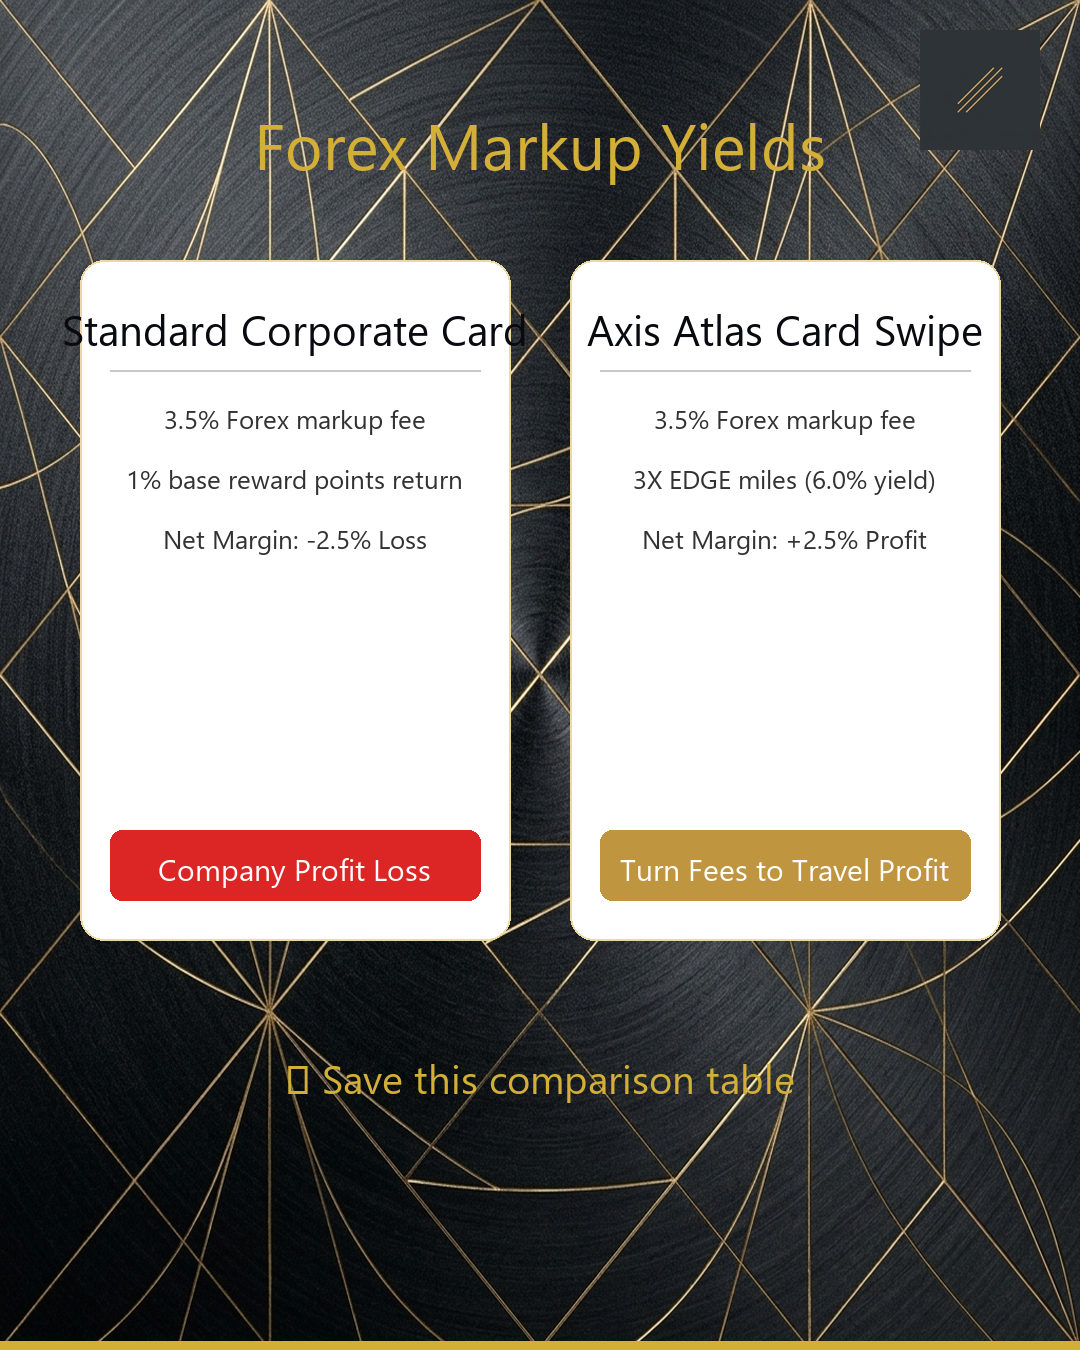
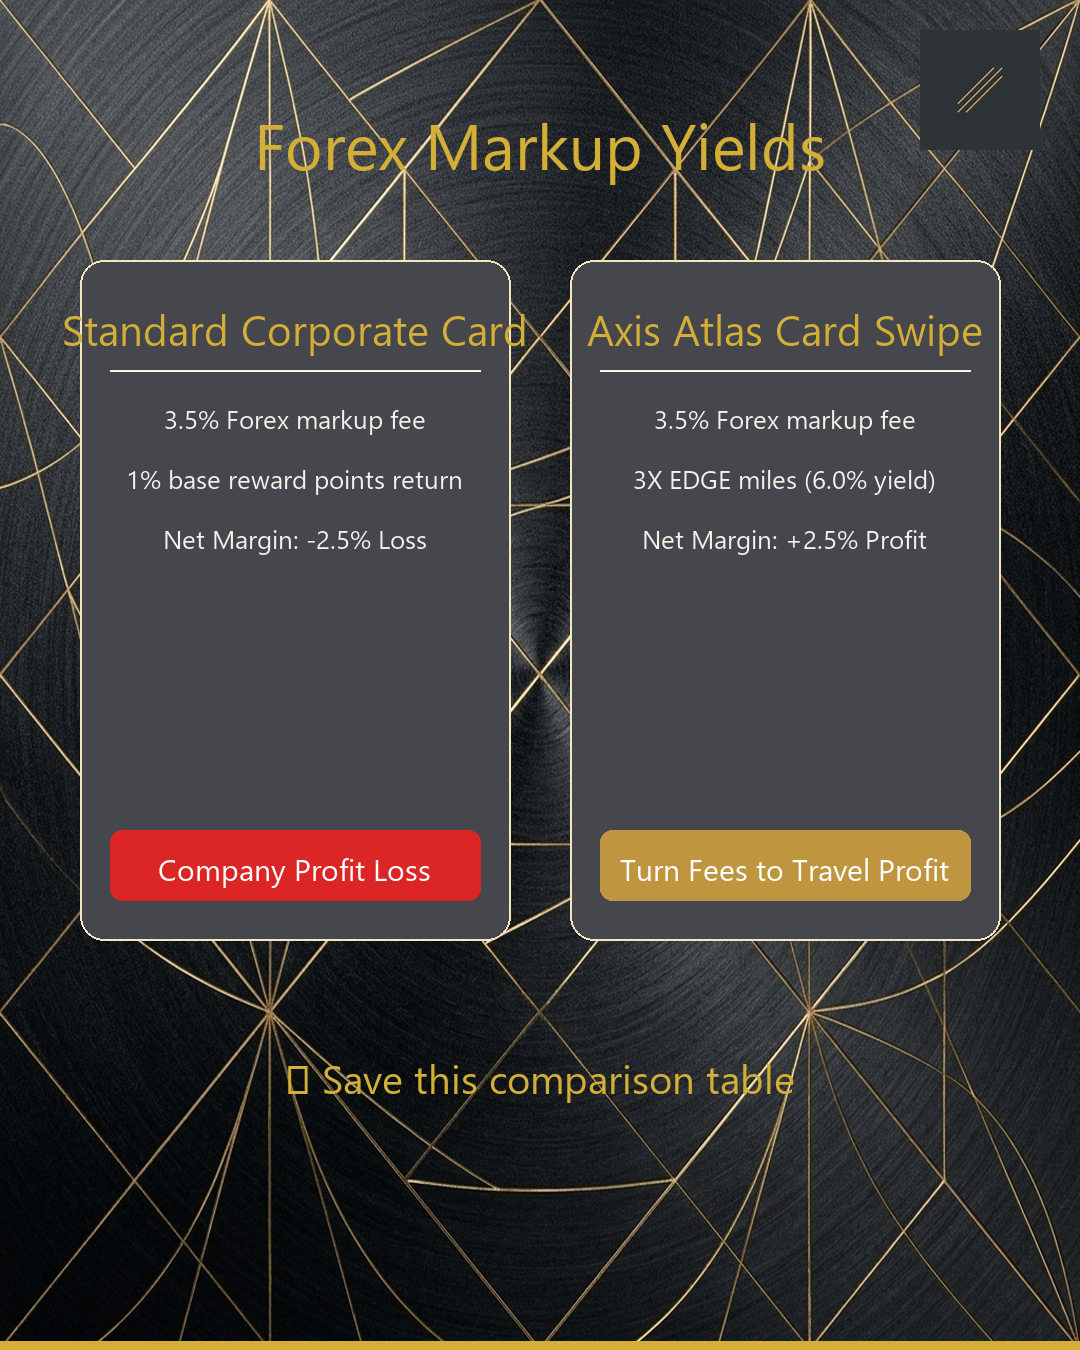
style: upgrade Slide 4 Math cards to premium dark glassmorphism and complete UI rebranding to The Indian Points Array

diff --git a/indiaCardRedemptions/src/app/insights.tsx b/indiaCardRedemptions/src/app/insights.tsx
@@ -51,9 +51,9 @@ export default function InsightsScreen() {
       imageStyle={{ width: '100%', height: '100%', opacity: 0.35 }}
     >
       <Head>
-        <title>Double/Triple Dip Calculator & Atlas Checker | The Points Array</title>
+        <title>Double/Triple Dip Calculator & Atlas Checker | The Indian Points Array</title>
         <meta name="description" content="Calculate extreme ROI with double and triple dips on HDFC SmartBuy and Marriott. Check live Axis Atlas MCC exclusions like BharatNXT." />
-        <meta property="og:title" content="Double/Triple Dip Calculator & Atlas Checker | The Points Array" />
+        <meta property="og:title" content="Double/Triple Dip Calculator & Atlas Checker | The Indian Points Array" />
         <meta property="og:description" content="Calculate extreme ROI with double and triple dips on HDFC SmartBuy and Marriott. Check live Axis Atlas MCC exclusions like BharatNXT." />
       </Head>
 
@@ -70,7 +70,7 @@ export default function InsightsScreen() {
           <Animated.View entering={FadeInDown.delay(200).springify()} style={styles.header}>
             <View>
               <ThemedText style={styles.subTitle} type="code">
-                THE POINTS ARRAY HACKS
+                THE INDIAN POINTS ARRAY HACKS
               </ThemedText>
               <ThemedText style={styles.mainTitle} type="title">
                 Insights & Multi-Dips
@@ -293,7 +293,7 @@ export default function InsightsScreen() {
                   <BlurView intensity={60} tint="dark" style={[StyleSheet.absoluteFillObject, { justifyContent: 'center', alignItems: 'center', padding: Spacing.five }]}>
                     <View style={styles.paywallBox}>
                       <ThemedText style={{ fontSize: 40, textAlign: 'center', marginBottom: Spacing.two }}>🔒</ThemedText>
-                      <ThemedText style={styles.paywallTitle}>Unlock The Points Array Pro</ThemedText>
+                      <ThemedText style={styles.paywallTitle}>Unlock The Indian Points Array Pro</ThemedText>
                       <ThemedText style={styles.paywallDesc}>
                         Get full access to our proprietary Double & Triple Dip calculators, exact routing blueprints, and private arbitrage groups.
                       </ThemedText>

diff --git a/indiaCardRedemptions/src/__tests__/insightsScreen.test.tsx b/indiaCardRedemptions/src/__tests__/insightsScreen.test.tsx
@@ -52,7 +52,7 @@ describe('InsightsScreen (Hacks & Multi-Dips)', () => {
   it('should render the facts section with live MCC checker by default', () => {
     const { getByText, getByPlaceholderText } = render(<InsightsScreen />);
 
-    expect(getByText('THE POINTS ARRAY HACKS')).toBeTruthy();
+    expect(getByText('THE INDIAN POINTS ARRAY HACKS')).toBeTruthy();
     expect(getByText('Insights & Multi-Dips')).toBeTruthy();
     expect(getByText('💡 CARD FACTS & EXCLUSIONS')).toBeTruthy();
     expect(getByText('🔥 DOUBLE & TRIPLE DIPS')).toBeTruthy();
@@ -83,7 +83,7 @@ describe('InsightsScreen (Hacks & Multi-Dips)', () => {
     fireEvent.press(getByText('🔥 DOUBLE & TRIPLE DIPS'));
 
     // Should display paywall
-    expect(getByText('Unlock The Points Array Pro')).toBeTruthy();
+    expect(getByText('Unlock The Indian Points Array Pro')).toBeTruthy();
     expect(getByText('Subscribe ₹4,999 / year')).toBeTruthy();
 
     // Calculators should be present but locked visually (within DOM)
@@ -93,6 +93,6 @@ describe('InsightsScreen (Hacks & Multi-Dips)', () => {
     fireEvent.press(getByText('Subscribe ₹4,999 / year'));
 
     // Paywall should disappear
-    expect(queryByText('Unlock The Points Array Pro')).toBeNull();
+    expect(queryByText('Unlock The Indian Points Array Pro')).toBeNull();
   });
 });

diff --git a/indiaCardRedemptions/src/app/intel.tsx b/indiaCardRedemptions/src/app/intel.tsx
@@ -25,9 +25,9 @@ export default function IntelScreen() {
       imageStyle={{ width: '100%', height: '100%', opacity: 0.35 }}
     >
       <Head>
-        <title>Credit Card News & Intel | The Points Array</title>
+        <title>Credit Card News & Intel | The Indian Points Array</title>
         <meta name="description" content="Live updates on credit card devaluations, routing sweet spots, and unannounced changes in the Indian rewards ecosystem." />
-        <meta property="og:title" content="Credit Card News & Intel | The Points Array" />
+        <meta property="og:title" content="Credit Card News & Intel | The Indian Points Array" />
         <meta property="og:description" content="Live updates on credit card devaluations, routing sweet spots, and unannounced changes in the Indian rewards ecosystem." />
       </Head>
 
@@ -44,7 +44,7 @@ export default function IntelScreen() {
           <Animated.View entering={FadeInDown.delay(200).springify()} style={styles.header}>
             <View>
               <ThemedText style={styles.subTitle} type="code">
-                THE POINTS ARRAY INTEL
+                THE INDIAN POINTS ARRAY INTEL
               </ThemedText>
               <ThemedText style={styles.mainTitle} type="title">
                 The Latest Intelligence

diff --git a/indiaCardRedemptions/src/app/concierge.tsx b/indiaCardRedemptions/src/app/concierge.tsx
@@ -29,7 +29,7 @@ export default function ConciergeScreen() {
       imageStyle={{ width: '100%', height: '100%', opacity: 0.35 }}
     >
       <Head>
-        <title>Concierge & Executive Strategy | The Points Array</title>
+        <title>Concierge & Executive Strategy | The Indian Points Array</title>
       </Head>
 
       <Animated.View entering={FadeIn.duration(1500)} style={StyleSheet.absoluteFillObject}>
@@ -45,7 +45,7 @@ export default function ConciergeScreen() {
           <Animated.View entering={FadeInDown.delay(200).springify()} style={styles.header}>
             <View>
               <ThemedText style={styles.subTitle} type="code">
-                THE POINTS ARRAY BLACK
+                THE INDIAN POINTS ARRAY BLACK
               </ThemedText>
               <ThemedText style={styles.mainTitle} type="title">
                 Executive Concierge

diff --git a/indiaCardRedemptions/src/app/deals.tsx b/indiaCardRedemptions/src/app/deals.tsx
@@ -31,9 +31,9 @@ export default function DealsScreen() {
       imageStyle={{ width: '100%', height: '100%', opacity: 0.35 }}
     >
       <Head>
-        <title>Live Point Sales Tracker | The Points Array</title>
+        <title>Live Point Sales Tracker | The Indian Points Array</title>
         <meta name="description" content="A dynamic ledger of live airline and hotel point sales with automatic wallet cross-referencing." />
-        <meta property="og:title" content="Live Point Sales Tracker | The Points Array" />
+        <meta property="og:title" content="Live Point Sales Tracker | The Indian Points Array" />
         <meta property="og:description" content="A dynamic ledger of live airline and hotel point sales with automatic wallet cross-referencing." />
       </Head>
 

diff --git a/indiaCardRedemptions/coverage/lcov-report/arbitrageCalculator.ts.html b/indiaCardRedemptions/coverage/lcov-report/arbitrageCalculator.ts.html
@@ -130,7 +130,7 @@ export function calculateYield(cashPrice: number, pointPrice: number, transferRa
             <div class='footer quiet pad2 space-top1 center small'>
                 Code coverage generated by
                 <a href="https://istanbul.js.org/" target="_blank" rel="noopener noreferrer">istanbul</a>
-                at 2026-05-28T21:36:09.847Z
+                at 2026-05-28T21:43:31.853Z
             </div>
         <script src="prettify.js"></script>
         <script>

diff --git a/indiaCardRedemptions/coverage/lcov-report/network.ts.html b/indiaCardRedemptions/coverage/lcov-report/network.ts.html
@@ -151,7 +151,7 @@ export async function getNetworkState(): Promise&lt;{ isConnected: boolean }&gt;
             <div class='footer quiet pad2 space-top1 center small'>
                 Code coverage generated by
                 <a href="https://istanbul.js.org/" target="_blank" rel="noopener noreferrer">istanbul</a>
-                at 2026-05-28T21:36:09.847Z
+                at 2026-05-28T21:43:31.853Z
             </div>
         <script src="prettify.js"></script>
         <script>

diff --git a/indiaCardRedemptions/coverage/lcov-report/pdfParser.ts.html b/indiaCardRedemptions/coverage/lcov-report/pdfParser.ts.html
@@ -244,7 +244,7 @@ export function parseInfiniaStatement(rawText: string): StatementParseResult {
             <div class='footer quiet pad2 space-top1 center small'>
                 Code coverage generated by
                 <a href="https://istanbul.js.org/" target="_blank" rel="noopener noreferrer">istanbul</a>
-                at 2026-05-28T21:36:09.847Z
+                at 2026-05-28T21:43:31.853Z
             </div>
         <script src="prettify.js"></script>
         <script>

diff --git a/indiaCardRedemptions/coverage/lcov-report/bridgeHelper.ts.html b/indiaCardRedemptions/coverage/lcov-report/bridgeHelper.ts.html
@@ -247,7 +247,7 @@ export async function copyToClipboard(text: string): Promise&lt;boolean&gt; {
             <div class='footer quiet pad2 space-top1 center small'>
                 Code coverage generated by
                 <a href="https://istanbul.js.org/" target="_blank" rel="noopener noreferrer">istanbul</a>
-                at 2026-05-28T21:36:09.847Z
+                at 2026-05-28T21:43:31.853Z
             </div>
         <script src="prettify.js"></script>
         <script>

diff --git a/indiaCardRedemptions/coverage/lcov-report/matrixEngine.ts.html b/indiaCardRedemptions/coverage/lcov-report/matrixEngine.ts.html
@@ -124,7 +124,7 @@ export function getTransferRatio(cardId: string, partnerId: string): number {
             <div class='footer quiet pad2 space-top1 center small'>
                 Code coverage generated by
                 <a href="https://istanbul.js.org/" target="_blank" rel="noopener noreferrer">istanbul</a>
-                at 2026-05-28T21:36:09.847Z
+                at 2026-05-28T21:43:31.853Z
             </div>
         <script src="prettify.js"></script>
         <script>

diff --git a/indiaCardRedemptions/coverage/lcov-report/mccChecker.ts.html b/indiaCardRedemptions/coverage/lcov-report/mccChecker.ts.html
@@ -241,7 +241,7 @@ export function getCardMultiplier(merchant: string, cardId: string): number {
             <div class='footer quiet pad2 space-top1 center small'>
                 Code coverage generated by
                 <a href="https://istanbul.js.org/" target="_blank" rel="noopener noreferrer">istanbul</a>
-                at 2026-05-28T21:36:09.847Z
+                at 2026-05-28T21:43:31.853Z
             </div>
         <script src="prettify.js"></script>
         <script>

diff --git a/indiaCardRedemptions/coverage/lcov-report/haptics.ts.html b/indiaCardRedemptions/coverage/lcov-report/haptics.ts.html
@@ -145,7 +145,7 @@ export const triggerHapticError = async (): Promise&lt;void&gt; =&gt; {
             <div class='footer quiet pad2 space-top1 center small'>
                 Code coverage generated by
                 <a href="https://istanbul.js.org/" target="_blank" rel="noopener noreferrer">istanbul</a>
-                at 2026-05-28T21:36:09.847Z
+                at 2026-05-28T21:43:31.853Z
             </div>
         <script src="prettify.js"></script>
         <script>
